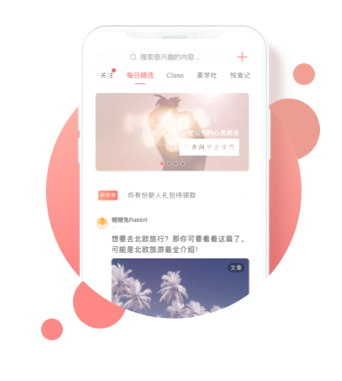
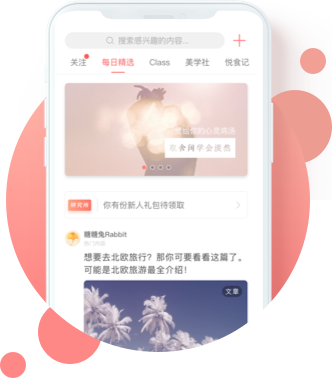
fix: 个人中心页相册重构完成

diff --git a/src/views/PersonalCenter.vue b/src/views/PersonalCenter.vue
@@ -22,7 +22,7 @@
       class="card-selector"
     >
 
-      <el-tab-pane class="card">
+      <el-tab-pane>
 
         <span slot="label"><el-image class="icon-img"
                                      :src="src1"
@@ -41,30 +41,28 @@
           </el-row>
         </div>
       </el-tab-pane>
-      <el-tab-pane class="card">
+      <el-tab-pane class="card2">
         <span slot="label"><el-image class="icon-img"
                                      :src="src2"
                                      fill="fill"
                                      style="height: 14px;width: 14px;"
         >
         </el-image><p class="tip">个人相册</p></span>
-        个人相册
-        <div class="infinite-list">
-          <ul
-            class="list"
-            v-infinite-scroll="load"
-            infinite-scroll-disabled="disabled"
-          >
-            <el-row v-for="i in count">
-              <el-col :span="8"><el-image :src="url_1" fit="contain" class="gallery"></el-image></el-col>
-              <el-col :span="8"><el-image :src="url_2" fit="contain" class="gallery"></el-image></el-col>
-              <el-col :span="8"><el-image :src="url_3" fit="contain" class="gallery"></el-image></el-col>
-            </el-row>
-            <!--            <li v-for="i in count" class="list-item" style="height: 20px">{{ i }}</li>-->
+        <div class="title"><p class="title-text">PHOTO GALLERY</p><div class="hengxian"></div></div>
+        <div class="gallery">
+        <el-scrollbar style="height: 100%;">
+        <ul>
+            <div class="home">
+              <div class="bannerArr">
+                <div class="img-item" v-for="(item,index) in banners" >
+                  <img v-image-preview class="img" :src="item.imgUrl"/>
+                </div>
+              </div>
+            </div>
+          <!--            <li v-for="i in count" class="list-item" style="height: 20px">{{ i }}</li>-->
           </ul>
-          <p v-if="loading">加载中...</p>
-          <p v-if="noMore">没有更多了</p>
-        </div>
+          </el-scrollbar>
+          </div>
       </el-tab-pane>
     </el-tabs>
   </div>
@@ -74,39 +72,73 @@
 <script>
 import NavBar from '../components/navbar'
 import MomentsCard from '../components/MomentsCard'
+// 引入插件
+import { swiper, swiperSlide } from "vue-awesome-swiper";
+import "swiper/css/swiper.css";
+import "@/assets/css/scrollbar.css"
 export default {
   components: {
     'ibird-nav': NavBar,
     'ibird-moments': MomentsCard,
+    swiper,
+    swiperSlide
   },
   data() {
     return {
+      banners: [
+        { imgUrl: 'static/img/gallery_1.jpeg' },
+        { imgUrl: 'static/img/gallery_2.png' },
+        { imgUrl: 'static/img/gallery_3.jpg' },
+        { imgUrl: 'static/img/gallery_3.jpg' },
+        { imgUrl: 'static/img/gallery_2.png' },
+        { imgUrl: 'static/img/gallery_1.jpeg' },
+        { imgUrl: 'static/img/gallery_1.jpeg' },
+        { imgUrl: 'static/img/gallery_2.png' },
+        { imgUrl: 'static/img/gallery_3.jpg' },
+        { imgUrl: 'static/img/gallery_2.png' },
+        { imgUrl: 'static/img/gallery_1.jpeg' },
+        { imgUrl: 'static/img/gallery_1.jpeg' },
+        { imgUrl: 'static/img/gallery_2.png' },
+        { imgUrl: 'static/img/gallery_3.jpg' }
+      ],
       src : "../static/img/banner.png",
       src1: "../static/img/bell.png",
       src2: "../static/img/camera.png",
       avatarUrl: "../static/img/profile.jpg",
       count: 10,
-      loading: false
+      loading: false,
+      swiperOption: {
+        loop: true,
+        slidesPerView: 3,
+        slidesPerColumn: 3,
+        slidesPerColumnFill:'row',
+        spaceBetween: 0.1, //轮播图之间的间距
+        direction: 'horizontal',//设置垂直vertical
+        //不需要自动轮播时
+        autoplay: false,
+        // 如果需要滚动条
+        scrollbar: {
+          el: '.swiper-scrollbar',
+        },
+      }
     }
   },
   computed: {
+    swiper() {
+      return this.$refs.mySwiper.swiper;
+    },
     noMore () {
       return this.count >= 20
     },
     disabled(){
       return this.noMore || this.loading
     },
-    // 在这里动态填充图片
-    url_1(){
-      console.log(this.count);
-      return "../static/img/gallery_1.jpeg"
-    },
-    url_2(){
-      return "../static/img/gallery_2.png"
-    },
-    url_3(){
-      return "../static/img/gallery_3.jpg"
-    }
+  },
+  mounted() {
+    // current swiper instance
+    // 然后你就可以使用当前上下文内的swiper对象去做你想做的事了
+    console.log("this is current swiper instance object", this.swiper);
+    // this.swiper.slideTo(3, 1000, false);
   },
   // 这里到时候联网
   methods: {
@@ -122,6 +154,60 @@ export default {
 </script>
 
 <style scoped>
+.card2{
+  width: 81%;
+  float: right;
+}
+.title{
+  width: 100%;
+  position: relative;
+  background-color: black;
+  font-family: 'Algerian';
+  font-size: 22px;
+  display: table;
+  color: #f1eeee;
+  height: 100%;
+}
+.title-text{
+  vertical-align: center;
+  margin-right: 330px;
+}
+.hengxian{
+  border:0.8px solid #7e7c7c;
+  width: 90%;
+  background-color: black;
+  position: absolute;
+  left: 50%;
+  transform: translate(-50%,-50%);
+}
+.gallery{
+  height: 400px;
+  margin-bottom: 100px;
+  background-color: black;
+}
+.home {
+  width: 100%;
+  height: 100%;
+  position: relative;
+  background-color: black;
+}
+.bannerArr{
+  width: 100%;
+  box-sizing: border-box;
+  display: flex;
+  flex-wrap: wrap;
+}
+.img-item{
+  width: 160px;
+  height: 160px;
+  padding: 5px;
+  box-sizing: border-box;
+}
+.img{
+  width: 100%;
+  height: 100%;
+  border: 1px solid #E3E3E3;
+}
 .card-selector {
   margin-top: 30px;
   position: relative;
@@ -129,15 +215,10 @@ export default {
   display: inline-block;
 }
 
-.card {
-  width: 90%;
-}
-
 .banner-img {
   width: 76%;
   margin-top: 20px;
 }
-
 
 .avatar-img {
   position: relative;
@@ -146,23 +227,10 @@ export default {
 .user-name > span {
   font-size: 28px;
 }
-
-.infinite-list {
-  overflow-x:hidden;
-  overflow-y:scroll;
-  height: 450px;
-  margin-bottom: 100px;
-}
-
 .personal-moments {
   height: 360px;
   overflow-y: scroll;
   margin-bottom: 100px;
-}
-
-.gallery {
-  height: 200px;
-  margin-bottom: 15px;
 }
 
 .moment-card {
@@ -178,5 +246,8 @@ export default {
   height: 16px;
   width: 16px;
   margin-right: 5px;
+}
+.user-name{
+  margin-bottom: 20px;
 }
 </style>

diff --git a/src/main.js b/src/main.js
@@ -12,7 +12,9 @@ import 'element-ui/lib/theme-chalk/index.css'
 // 引入swiper组件
 import VueAwesomeSwiper from 'vue-awesome-swiper'
 import 'swiper/css/swiper.css'
-
+// 点击图片预览大图
+import VueDirectiveImagePreviewer from 'vue-directive-image-previewer'
+import 'vue-directive-image-previewer/dist/assets/style.css'
 //main.js中引入并注册
 import filters from "./utils/filters"
 import BaiduMap from 'vue-baidu-map'
@@ -20,7 +22,7 @@ import BaiduMap from 'vue-baidu-map'
 Object.keys(filters).forEach(key => { //返回filters对象中属性名组成的数组
   Vue.filter(key, filters[key])
 })
-
+Vue.use(VueDirectiveImagePreviewer)
 Vue.use(VueAwesomeSwiper, /* { default global options } */)
 Vue.use(ElementUI)
 Vue.use(VueAxios, axios)

diff --git a/src/views/HomePage.vue b/src/views/HomePage.vue
@@ -214,7 +214,7 @@ export default {
 .phone-img{
   display: inline-block;
   height: auto;
-  max-width: 40%;
+  max-width: 38%;
   margin-top: 50px;
   margin-bottom: 20px;
 }

diff --git a/src/assets/css/scrollbar.css b/src/assets/css/scrollbar.css
@@ -1,0 +1,3 @@
+.el-scrollbar__wrap {
+  overflow-x: hidden;
+}
